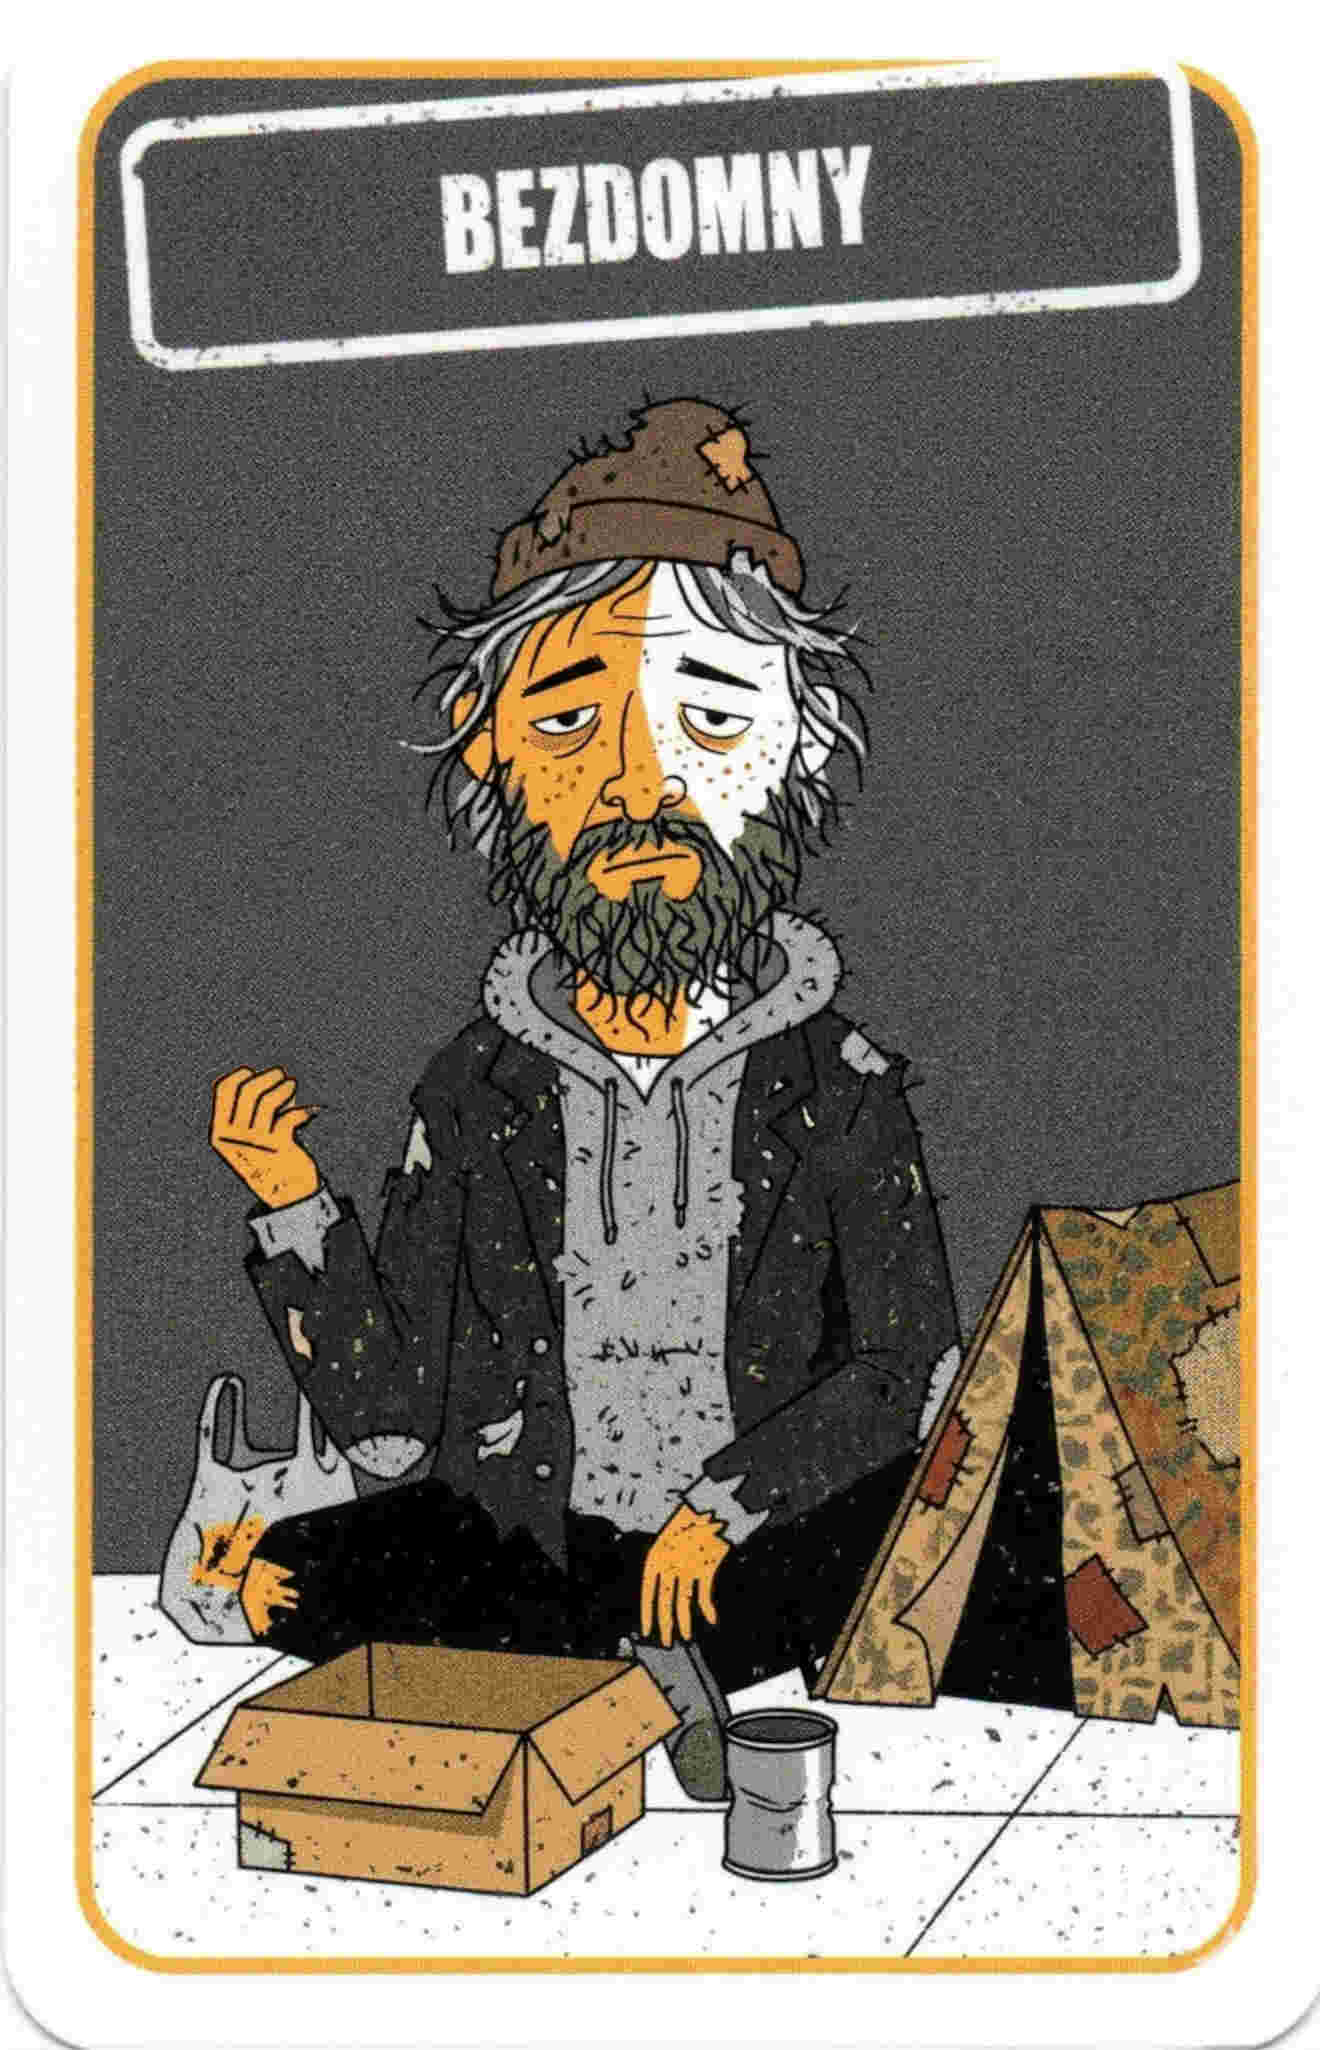
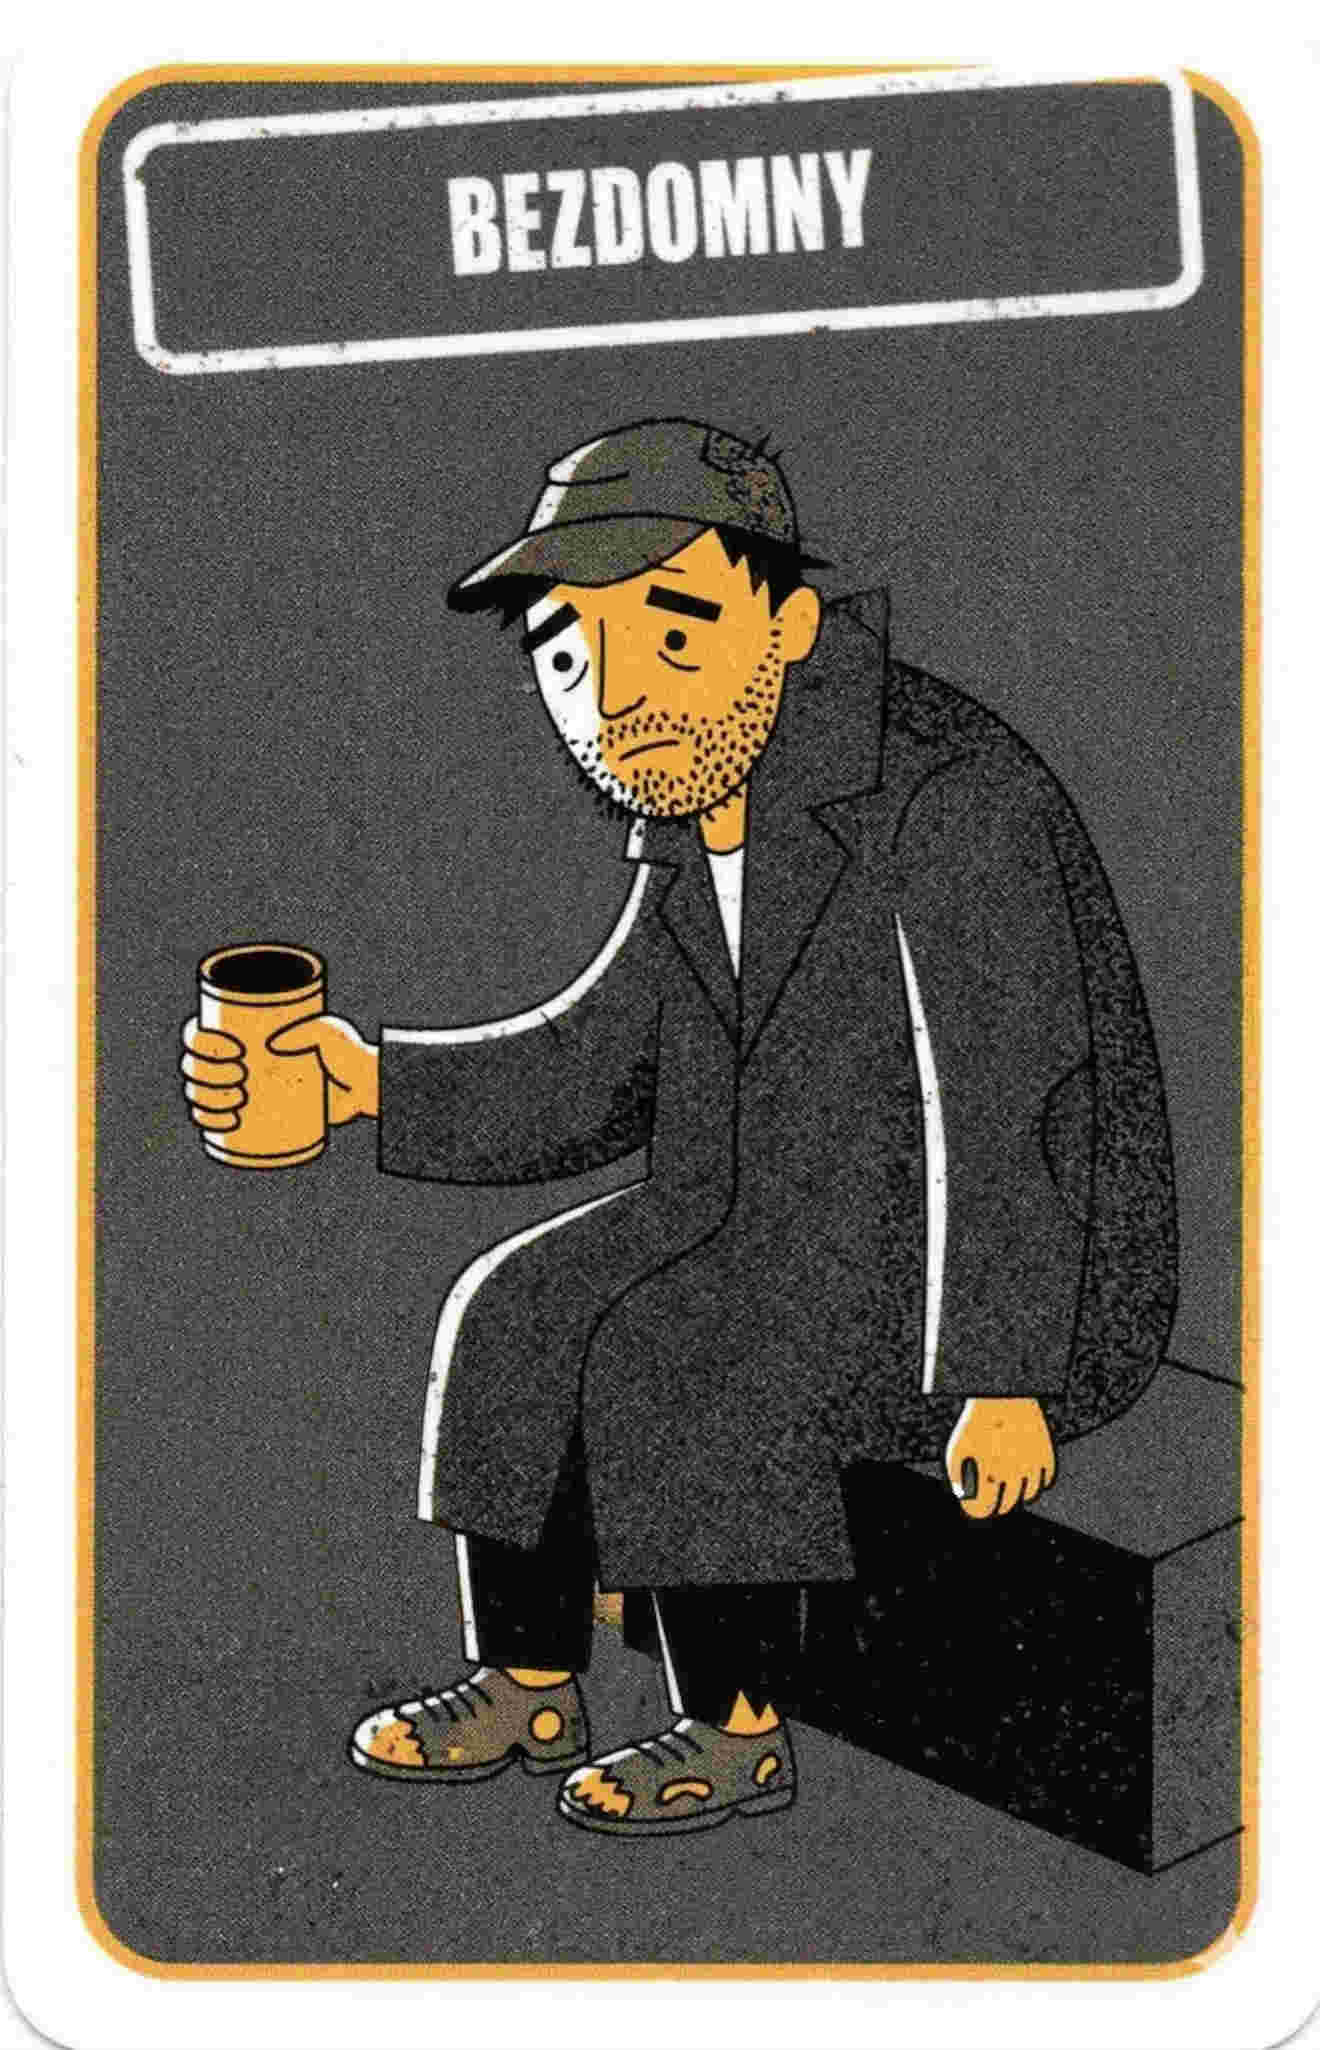
Update 14 person card images and document asset workflow
Replace original + compressed versions for: barber, bezdomny, biznesmen,
bogata_ciocia, byly_zolnierz, dentysta, influencer, kryptowalutowy_milioner,
prezenterka, stazystka, strazak, szpieg, taksowkarz, zlodziej.
Add asset workflow section to CLAUDE.md explaining original/compressed split.

diff --git a/CLAUDE.md b/CLAUDE.md
@@ -48,7 +48,24 @@ The board has 5 rows, each from a different pool defined in `app.properties.ts`:
 - **ITEM** (~32 cards) — weapons/evidence
 - **MOTIVE** (~30 cards) — criminal motives
 
-Cards have `{ name: string, image: string }` shape. Images live under `src/assets/{person,place,item,motive}/`.
+Cards have `{ name: string, image: string }` shape. Images are served from `src/assets/compressed/{person,place,item,motive}/`.
+
+### Asset workflow
+
+Images are stored in two places:
+
+- **`src/assets/original/{category}/`** — full-resolution source files; this is where cards are added or replaced
+- **`src/assets/compressed/{category}/`** — optimized versions actually served by the app (400px wide, ~25-35KB JPEG)
+
+**When adding or updating card images, always edit `original/` first, then generate the compressed copy:**
+
+```bash
+convert src/assets/original/{category}/nazwa.jpeg \
+  -resize 400x -quality 55 -sampling-factor 4:2:0 \
+  src/assets/compressed/{category}/nazwa.jpeg
+```
+
+Never edit `compressed/` directly — it is always derived from `original/`.
 
 ### Board state sharing
 
